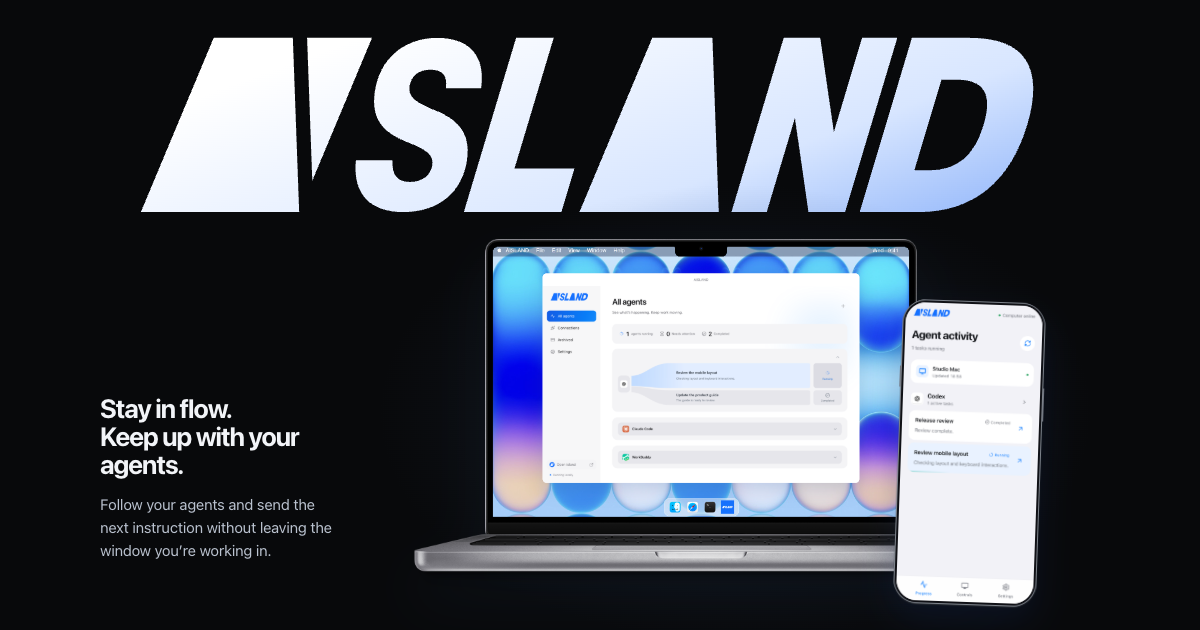
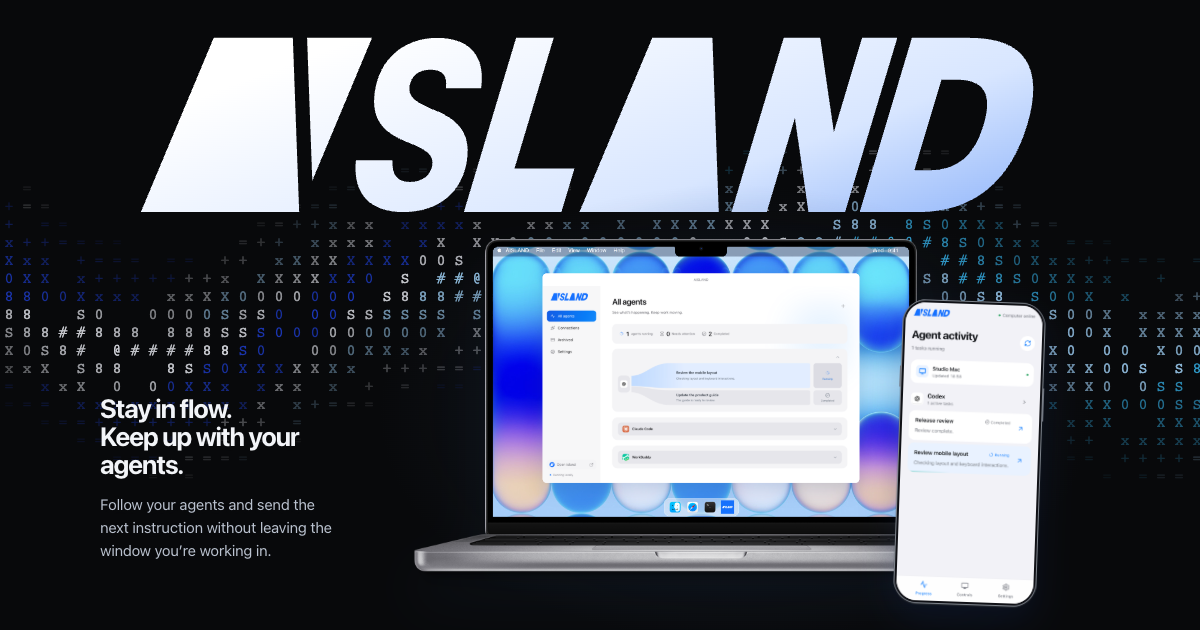
Animate a blue ASCII horizon behind the homepage hero

diff --git a/src/GradientASCII.tsx b/src/GradientASCII.tsx
@@ -1,0 +1,105 @@
+import {useEffect, useRef} from 'react';
+
+type GradientASCIIProps = {
+  colors: readonly string[];
+  shape: 'horizon';
+  characters: string;
+  cellSize: number;
+  density: number;
+};
+
+export default function GradientASCII({colors, shape, characters, cellSize, density}: GradientASCIIProps) {
+  const ref = useRef<HTMLCanvasElement>(null);
+
+  useEffect(() => {
+    const canvas = ref.current;
+    const ctx = canvas?.getContext('2d');
+    if (!canvas || !ctx || !characters.length || !colors.length || cellSize <= 0) return;
+
+    const motion = matchMedia('(prefers-reduced-motion: reduce)');
+    const glyphs = Array.from(characters);
+    const grid = document.createElement('canvas');
+    const brush = grid.getContext('2d');
+    if (!brush) return;
+    let pixels = 1;
+    let width = 0, height = 0, tile = 0;
+    let visible = false, frame = 0, last = 0, elapsed = 0;
+
+    function paint() {
+      if (!ctx) return;
+      ctx.clearRect(0, 0, width, height);
+      const t = elapsed / 1000;
+      const columns = Math.ceil(width / cellSize);
+      const band = Math.min(136, height * .22);
+      for (let column = 0; column < columns; column++) {
+        const u = column / columns;
+        const center = height * .46 + band * (.34 * Math.sin(u * 8 - t * .25) + .23 * Math.sin(u * 15 + t * .19));
+        const start = Math.max(0, Math.floor((center - band) / cellSize));
+        const end = Math.min(Math.ceil(height / cellSize), Math.ceil((center + band) / cellSize));
+        for (let row = start; row < end; row++) {
+          // A fixed cell mask keeps the field open without flickering between frames.
+          const seed = Math.imul(column + 1, 73856093) ^ Math.imul(row + 1, 19349663);
+          if ((seed >>> 0) % 997 / 997 >= density) continue;
+          const v = (row * cellSize - center) / band;
+          const light = Math.pow(Math.max(0, 1 - Math.abs(v)), 1.35);
+          const ripple = .5 + .5 * Math.sin(u * 19 + v * 5 - t * .65);
+          const intensity = Math.min(1, light * (.58 + .42 * ripple));
+          const glyph = Math.round(intensity * (glyphs.length - 1));
+          const color = Math.min(colors.length - 1, Math.floor((u * .58 + ripple * .42) * colors.length));
+          ctx.globalAlpha = light * .83;
+          ctx.drawImage(grid, glyph * tile, color * tile, tile, tile, column * cellSize, row * cellSize, cellSize, cellSize);
+        }
+      }
+      ctx.globalAlpha = 1;
+    }
+    function resize() {
+      if (!canvas || !ctx || !brush) return;
+      const bounds = canvas.getBoundingClientRect();
+      width = bounds.width; height = bounds.height;
+      pixels = Math.min(window.devicePixelRatio || 1, 2);
+      canvas.width = Math.round(width * pixels);
+      canvas.height = Math.round(height * pixels);
+      ctx.setTransform(pixels, 0, 0, pixels, 0, 0);
+      tile = Math.ceil(cellSize * pixels);
+      grid.width = tile * glyphs.length;
+      grid.height = tile * colors.length;
+      brush.font = '500 ' + Math.round(tile * .82) + 'px ui-monospace, monospace';
+      brush.textAlign = 'center';
+      brush.textBaseline = 'middle';
+      colors.forEach((color, y) => {
+        brush.fillStyle = color;
+        glyphs.forEach((glyph, x) => brush.fillText(glyph, (x + .5) * tile, (y + .52) * tile));
+      });
+      paint();
+    }
+    function tick(now: number) {
+      if (!last || now - last >= 1000 / 24) {
+        elapsed += last ? Math.min(now - last, 100) : 0;
+        last = now;
+        paint();
+      }
+      frame = requestAnimationFrame(tick);
+    }
+    function sync() {
+      cancelAnimationFrame(frame);
+      last = 0;
+      if (visible && !document.hidden && !motion.matches) frame = requestAnimationFrame(tick);
+    }
+    const sizes = new ResizeObserver(resize);
+    const visibility = new IntersectionObserver(([entry]) => {visible = entry.isIntersecting; sync();});
+    resize();
+    sizes.observe(canvas);
+    visibility.observe(canvas);
+    motion.addEventListener('change', sync);
+    document.addEventListener('visibilitychange', sync);
+    return () => {
+      cancelAnimationFrame(frame);
+      sizes.disconnect();
+      visibility.disconnect();
+      motion.removeEventListener('change', sync);
+      document.removeEventListener('visibilitychange', sync);
+    };
+  }, [colors, characters, cellSize, density]);
+
+  return <canvas ref={ref} data-shape={shape} aria-hidden="true"/>;
+}

diff --git a/public/index.html b/public/index.html
@@ -8,8 +8,8 @@
 <meta property="og:type" content="website"><meta property="og:title" content="AISLAND - Your agents, at a glance."><meta property="og:description" content="A quieter place for your agents on macOS and Windows."><meta property="og:url" content="https://calibg.github.io/agent-island/"><meta property="og:image" content="https://calibg.github.io/agent-island/assets/social.png?v=studio-en4"><meta name="twitter:card" content="summary_large_image">
 <link rel="icon" type="image/svg+xml" href="./assets/icon.svg"><link rel="stylesheet" href="./vendor/devices-macbook.css"><link rel="stylesheet" href="./marketing.css?v=studio-en4"><link rel="stylesheet" href="./ui/hover-buttons.css"><link rel="stylesheet" href="./experience.css?v=studio-en4">
 <link rel="stylesheet" href="./convergence.css"><link rel="stylesheet" href="./agent-marquee.css"><link rel="stylesheet" href="./stack.css"><link rel="stylesheet" href="./studio.css?v=4">
-<script src="./site.js?v=studio-en4" defer></script><script src="./convergence.js?v=studio-en4" defer></script><script src="./agent-marquee.js?v=4" defer></script><script src="./stack.js" defer></script><script type="module" src="./ui/hover-buttons.js"></script>
-<link rel="stylesheet" href="./night.css"></head>
+<script src="./site.js?v=studio-en4" defer></script><script src="./convergence.js?v=studio-en4" defer></script><script src="./agent-marquee.js?v=4" defer></script><script src="./stack.js" defer></script><script type="module" src="./ui/hover-buttons.js?v=ascii1"></script>
+<link rel="stylesheet" href="./night.css?v=ascii1"></head>
 <body>
 <svg class="symbol-library" aria-hidden="true" xmlns="http://www.w3.org/2000/svg"><defs><symbol id="icon-apple" viewBox="0 0 24 24"><path fill="currentColor" d="M17.05 12.3c.03 3.2 2.81 4.26 2.84 4.27-.02.08-.44 1.52-1.46 3.01-.89 1.29-1.81 2.58-3.26 2.61-1.42.03-1.88-.84-3.5-.84-1.63 0-2.14.81-3.48.87-1.4.05-2.46-1.4-3.35-2.68-1.82-2.63-3.2-7.44-1.33-10.68.93-1.61 2.59-2.63 4.39-2.66 1.37-.03 2.66.92 3.5.92.83 0 2.4-1.14 4.04-.97.69.03 2.63.28 3.88 2.11-.1.07-2.31 1.35-2.27 4.04ZM14.4 4.4c.74-.9 1.23-2.15 1.1-3.4-1.06.04-2.35.71-3.11 1.61-.68.79-1.28 2.06-1.12 3.28 1.19.09 2.4-.61 3.13-1.49Z"/></symbol><symbol id="icon-windows" viewBox="0 0 24 24"><path fill="currentColor" d="M2 4.5 10.5 3.3v8H2zm10-1.4L22 1.7v9.6H12zM2 12.8h8.5v8L2 19.6zm10 0h10v9.5L12 20.9z"/></symbol><symbol id="icon-arrow" viewBox="0 0 24 24"><path d="M5 12h14m-6-6 6 6-6 6" fill="none" stroke="currentColor" stroke-width="1.7" stroke-linecap="round" stroke-linejoin="round"/></symbol><symbol id="icon-expand" viewBox="0 0 24 24"><path d="M8 4H4v4m12-4h4v4M4 16v4h4m12-4v4h-4" fill="none" stroke="currentColor" stroke-width="1.7" stroke-linecap="round"/></symbol></defs></svg>
 <a class="skip-link" href="#main">Skip to content</a>
@@ -25,10 +25,11 @@
 </header>
 <main id="main">
   <section class="hero container" aria-labelledby="hero-title">
+    <div class="hero-ascii" aria-hidden="true"></div>
     <h1 id="hero-title" class="masthead"><span class="visually-hidden">AISLAND</span></h1>
     <div class="hero-layout">
       <div class="hero-copy">
-        <p class="hero-statement">Stay in flow.<br>Keep up with your agents.</p>
+        <p class="hero-statement">Stay in flow. <br>Keep up with your agents.</p>
         <p class="intro-copy">Follow your agents and send the next instruction without leaving the window you’re working in.</p>
         <a class="text-link hero-explore" href="#converge">Explore the island <span aria-hidden="true">↓</span></a>
       </div>

diff --git a/src/buttons.tsx b/src/buttons.tsx
@@ -1,6 +1,7 @@
 import {createRoot} from 'react-dom/client';
 import {InteractiveHoverButton} from './components/ui/interactive-hover-button';
 import './tailwind.css';
+import GradientASCII from './GradientASCII';
 
 for(const host of document.querySelectorAll<HTMLElement>('[data-hover-button]')){
  const fallback=host.querySelector<HTMLAnchorElement>('a');
@@ -9,4 +10,9 @@ for(const host of document.querySelectorAll<HTMLElement>('[data-hover-button]'))
  const href=fallback.getAttribute('href')||'#download';
  createRoot(host).render(<InteractiveHoverButton href={href} fullWidth={host.dataset.fullWidth==='true'} className={host.dataset.variant==='light'?'hover-button-light':undefined}>{label}</InteractiveHoverButton>);
  host.dataset.enhanced='true';
+}
+
+const background = document.querySelector('.hero-ascii');
+if (background) {
+  createRoot(background).render(<GradientASCII colors={['#1e3fd8', '#f6f8ff', '#a5d8ff', '#38bdf8']} shape="horizon" characters=" =+xX0S8#@" cellSize={18} density={0.8}/>);
 }

diff --git a/public/night.css b/public/night.css
@@ -61,3 +61,8 @@ html,body,.brand-band,.header,.convergence,.product-showcase,.download-section,.
 .group-switcher button{font-size:2.68cqw;font-weight:560;letter-spacing:0}
 .experience-stage .experience-monitor{align-self:start}
 @media(max-width:740px){.experience-stage{min-height:clamp(295px,86vw,445px)}}
+.hero{position:relative;isolation:isolate}
+.hero-ascii{position:absolute;inset:0 auto 0 50%;width:100vw;transform:translateX(-50%);pointer-events:none;z-index:-1;overflow:hidden}
+.hero-ascii canvas{display:block;width:100%;height:100%}
+.hero-copy{text-shadow:0 1px 5px #08090b}
+@media(max-width:740px){.hero-ascii{top:24%}}
